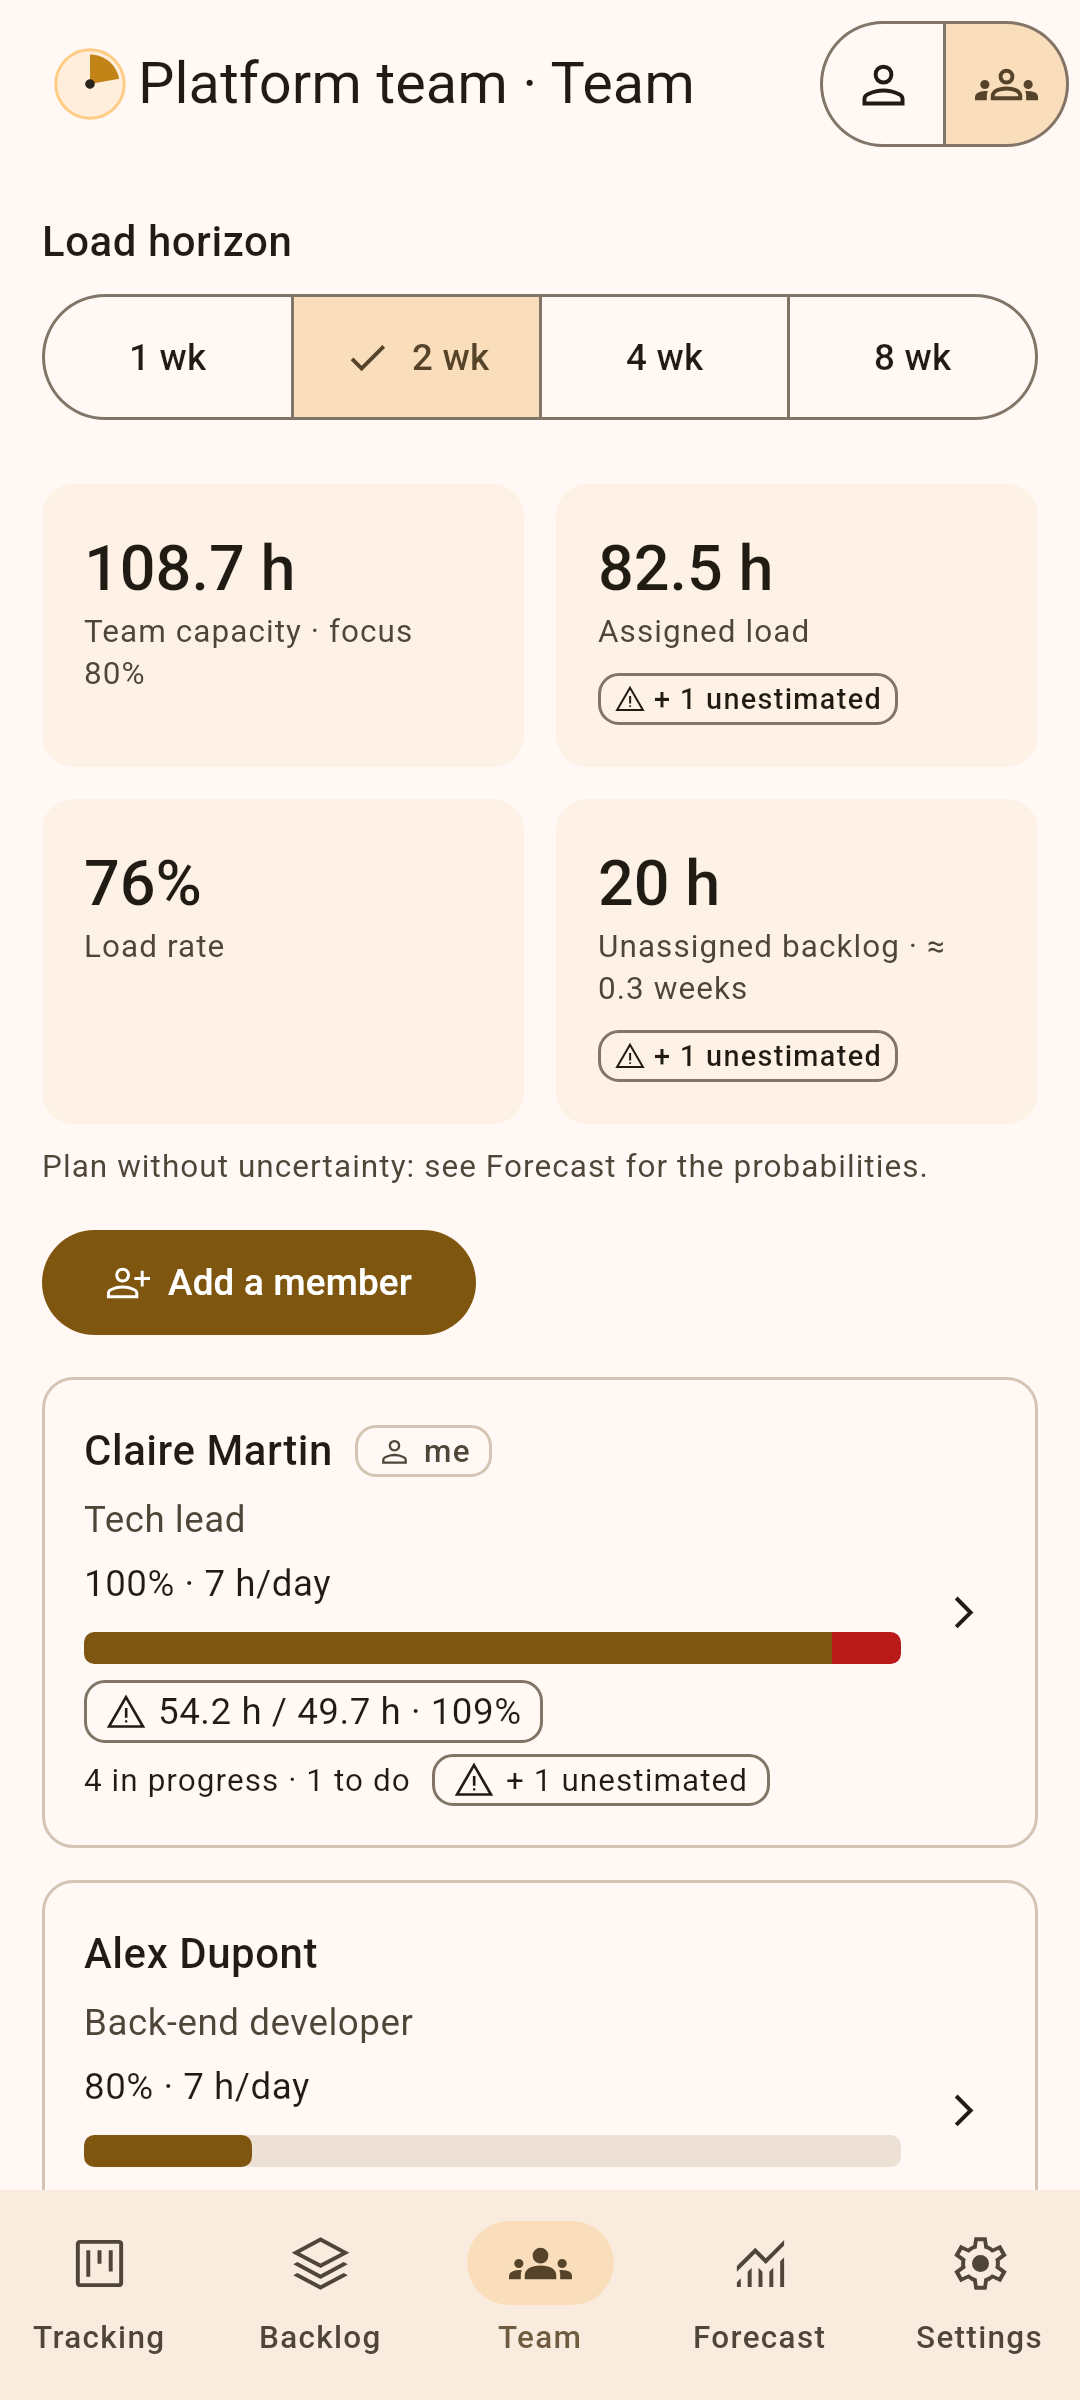
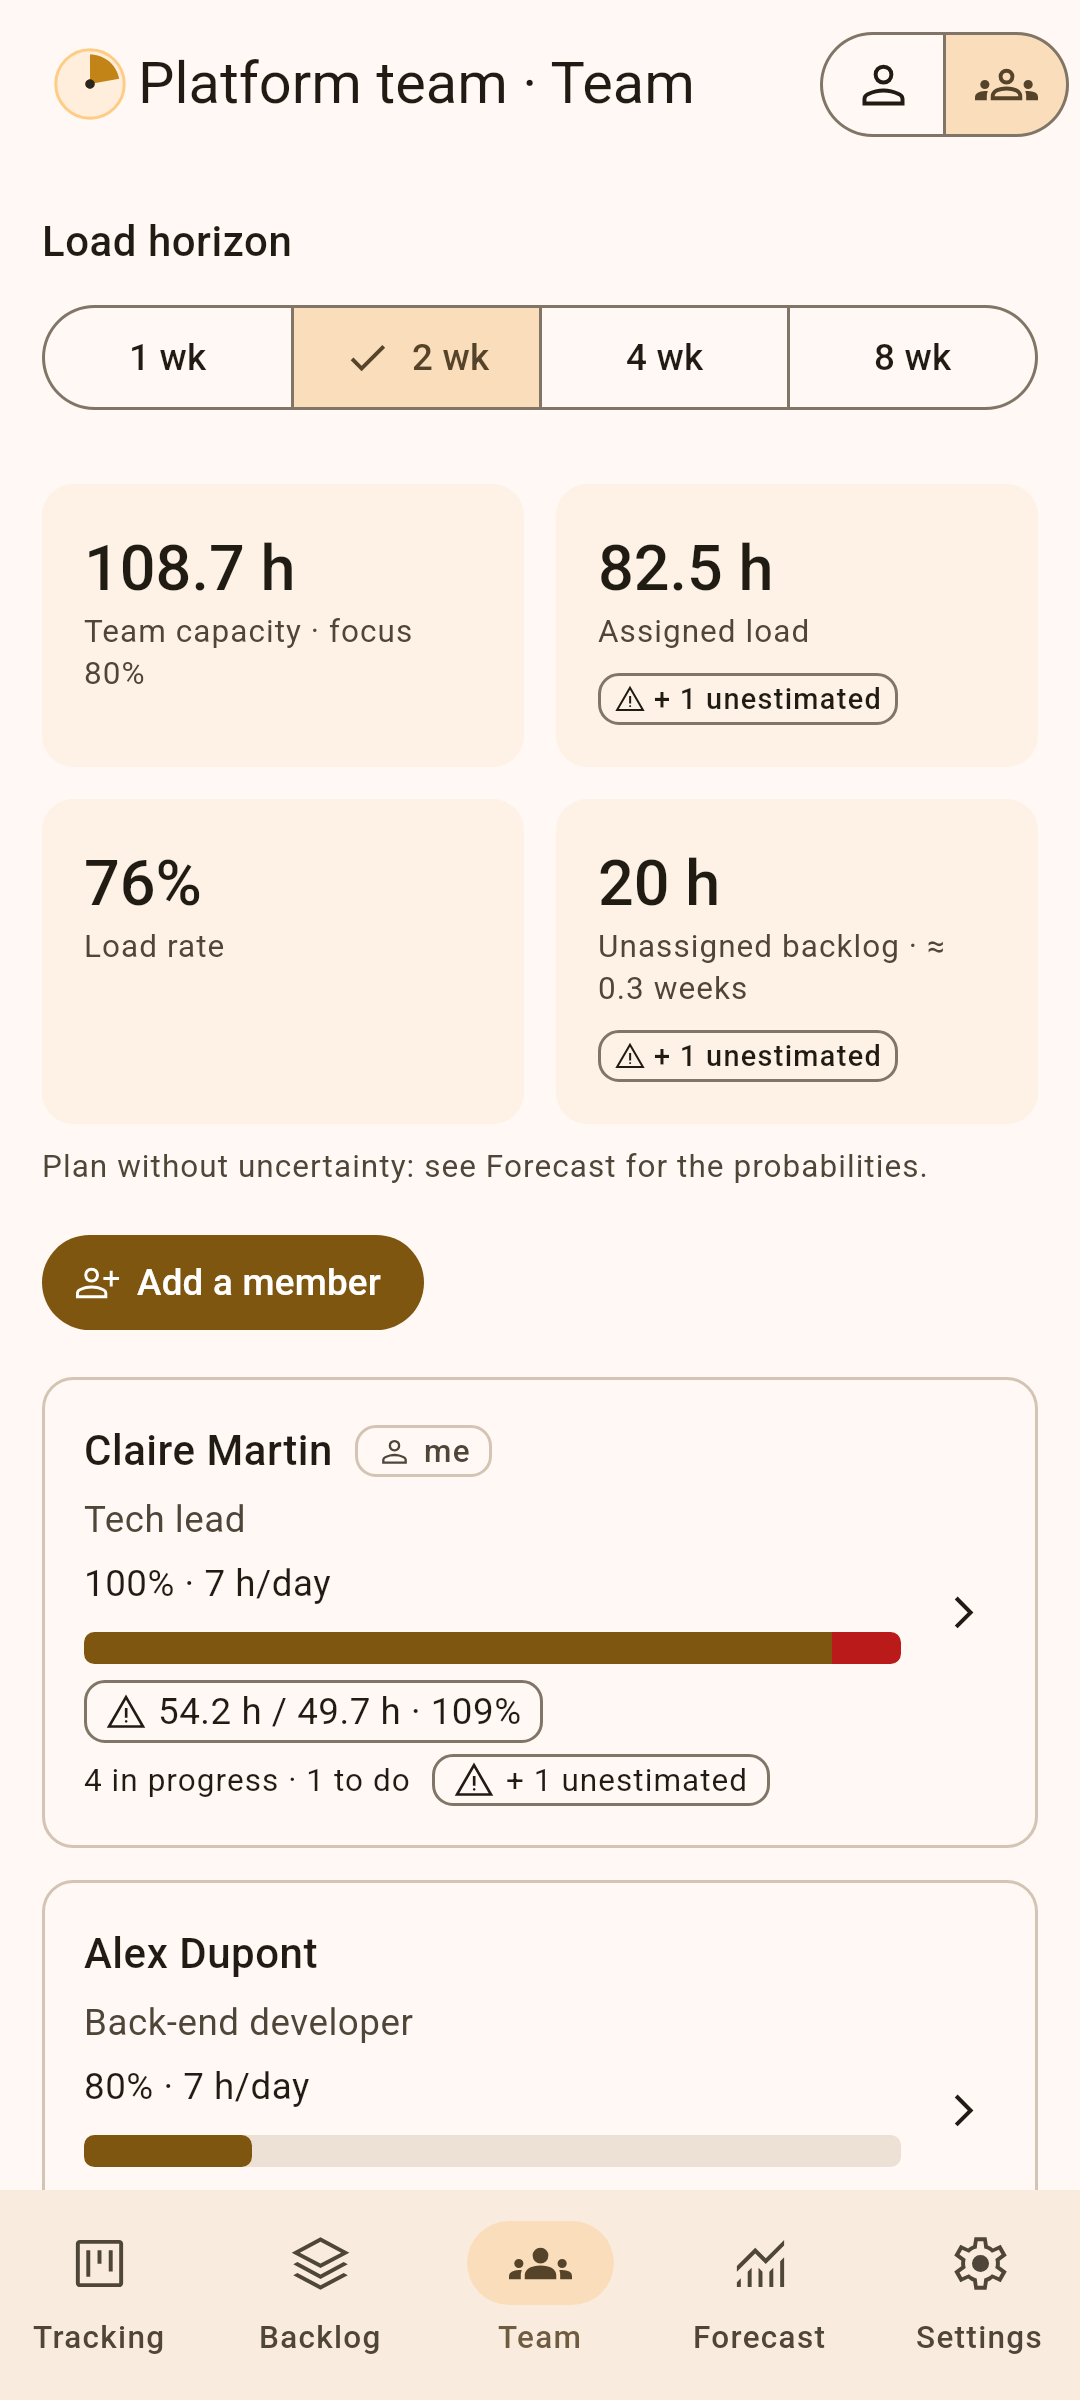
Densité : specs tracées, captures des magasins régénérées
densite.md passée à l'état implémenté avec les chiffres réels (132 usages,
19 heightIn retirés, 5 conservés), reports dans DESIGN_SYSTEM,
accessibilite, reglages et navigation-theme. Captures Fastlane FR/EN
régénérées (les boutons y changent).

Claude-Session: https://claude.ai/code/session_01R3cBrC1E3Z3UZPDJ9xZkLC

diff --git a/docs/spec/densite.md b/docs/spec/densite.md
@@ -10,8 +10,8 @@ les emploient ; charte : [`docs/DESIGN_SYSTEM.md`](../DESIGN_SYSTEM.md)
 § Boutons & champs. Complète [`navigation-theme.md`](navigation-theme.md) et
 [`accessibilite.md`](accessibilite.md)._
 
-État : **spécifiée le 2026-10-01, non implémentée** (passe « design »,
-branche empilée sur le jalon E6 de l'espace Équipe).
+État : **implémentée le 2026-10-01** (passe « design », branche empilée sur
+le jalon E6 de l'espace Équipe).
 
 ## 1. Besoin métier (cahier des charges)
 
@@ -61,6 +61,8 @@ champs à contour).
   sélecteur segmenté 40 dp (tests de mesure).
 - Aucune nouvelle chaîne, aucun texte déplacé : `StringsParityTest` inchangé.
 - Les écrans de l'espace Équipe suivent la même règle que les autres.
+- Les captures des magasins sont régénérées (`--store-screenshots`) : tous
+  les boutons y changent.
 
 ### Hors périmètre
 
@@ -93,10 +95,33 @@ champs à contour).
   Material 3 ne s'emploient que dans `KairosComponents.kt` (test source
   `ComponentDensityTest`) ; sinon une 117e utilisation retomberait à la
   taille nominale sans que personne le voie.
-- Les `heightIn(min = 48.dp)` posés **sur** un bouton ou une puce sont
-  retirés (23 occurrences au départ). Ceux posés sur une **ligne** entière
-  qui se touche (`disclosure`, cases à cocher avec libellé, interrupteurs)
-  restent : c'est la cible tactile de la ligne, pas un composant à alléger.
+- Les `heightIn(min = 48.dp)` posés **sur** un bouton, une puce ou un
+  segment sont retirés (19) ; ceux posés sur une **ligne** entière qui se
+  touche restent (5 : `disclosure`, case à cocher avec libellé, interrupteur,
+  ligne d'absence, ligne d'échéance des prévisions) : c'est la cible
+  tactile de la ligne, pas un composant à alléger.
+- La hauteur dessinée vient de `heightIn(min = 36.dp)` posé par l'enveloppe :
+  le `Surface` de Material 3 propage la contrainte minimale, donc son
+  `defaultMinSize` de 40 dp ne joue plus (un test de mesure échoue à 41 dp).
+  Un bouton dont le contenu commence par une icône reçoit
+  `contentPadding = KairosButtonIconPadding` (12 dp côté icône) ; ceux dont
+  l'icône est en fin de contenu (« Suivant », feuille de suggestion) gardent
+  16 dp des deux côtés.
+- `KairosSegmentedButton` est une extension du scope de la rangée
+  (`SingleChoiceSegmentedButtonRowScope`), pour garder les poids et
+  `itemShape` de Material 3.
+- 132 appels directs remplacés (Button 21, OutlinedButton 29, TextButton 67,
+  FilterChip 5, rangées segmentées 4, segments 6), 12 `KairosRowIconButton`
+  (ligne de tâche, bloc, fiche membre, ⋮ du Backlog, du Suivi et des
+  scénarios, suppression d'une note ou d'une modification). Restent en
+  `IconButton` de 24 dp : la coche « fait » d'une ligne de tâche et les
+  boutons de fermeture (feuilles, dialogues, À propos, chrono).
+- `ComponentDensityTest` (ui) lit `src/commonMain/kotlin` depuis le
+  répertoire du module, comme `StringsParityTest`, ignore commentaires et
+  KDoc, et refuse les appels et imports directs des sept composants Material
+  3 (qualifiés ou `material3.*` compris) hors `KairosComponents.kt` ;
+  `ComponentDensityUiTest` (desktopApp) mesure 36 / 32 / 40 / 40 dp dessinés
+  et 48 dp d'aire tactile.
 
 ### Espacement (`theme/KairosSpacing.kt`)
 
@@ -104,22 +129,46 @@ champs à contour).
   d'un groupe, puces entre elles), `m` 12 dp (blocs et cartes d'une liste),
   `l` 16 dp (marge intérieure d'une carte, marge d'écran), `xl` 24 dp (avant
   un titre de section).
+- Dérivées pour les `LazyColumn` dont les lignes restent à `s` :
+  `KairosListBlockExtra` (m − s) et `KairosListSectionExtra` (xl − s),
+  ajoutées autour d'un bloc ou d'un titre de section.
 - Appliqué aux colonnes de premier niveau des écrans (Jour, Notes, Semaine,
-  Stats, Réglages, Équipe) : `m` entre blocs, `xl` avant un titre de
-  section. Les marges intérieures de cartes restent à `l`. Pas de
-  remplacement mécanique des 8/12 dp déjà adaptés dans les composants.
+  Stats, Réglages, À propos, Backlog, Suivi, Équipe, Prévisions) : marge
+  d'écran `l`, `m` entre blocs, `xl` avant un titre de section (Jour, Notes,
+  Backlog, « Anciens membres », « Résultat » des Prévisions ; Semaine, Stats
+  et Suivi n'ont pas de titre de section hors carte). Les listes de tâches
+  gardent `s` entre lignes. Les marges intérieures de cartes restent à `l`.
+  Laissés tels quels : espacements internes des composants (lignes de tâche,
+  badges, barres, cartes « Maintenant » et « En ce moment » à 20 dp),
+  dialogues et fiches formulaire (déjà sur l'échelle), espacements
+  horizontaux.
 
 ### Réglages
 
 - Cartes de section : `Card` « filled » (`surfaceContainerLow`, sans
   contour, élévation 0), marge intérieure `l`, titre en `titleMedium`.
-- Champs numériques (`OutlinedTextField` à un nombre) : `widthIn(max =
-  320.dp)` et aide sous le champ à la même largeur ; champs de texte (types,
-  jours fériés, couleur libre) et interrupteurs gardent la pleine largeur.
-- Règle « pas de contour dans un contour » : une carte à contour
-  (`OutlinedCard`) ne contient pas d'autre bloc à contour que ses champs ;
-  dans une carte « filled », les sous-blocs sont « filled » plus clairs ou
-  sans fond.
+- `SettingsCard`, `SettingsClickableCard` (« À propos et guide », fond du
+  `ListItem` transparent) et `SettingsCardHeader` portent ces cartes pour les
+  huit sections du formulaire et pour Apparence, Équipe, Mises à jour,
+  Données et Raccourci.
+- Champs numériques (entiers et décimaux) : `Modifier.widthIn(max =
+  320.dp).fillMaxWidth()` (**dans cet ordre** : `fillMaxWidth().widthIn(max)`
+  laisse la contrainte entrante l'emporter et le champ reste pleine largeur) ;
+  l'aide (`supportingText`) suit la même largeur. Champs de texte libre
+  (types, jours fériés, couleur libre), dates et interrupteurs gardent la
+  pleine largeur. `SettingsLayoutUiTest` vérifie 360 et 1000 dp.
+- Règle « pas de contour dans un contour », appliquée aux **blocs** (cartes,
+  tuiles, panneaux), pas aux contrôles ni aux pastilles : une carte à contour
+  ne contient pas d'autre bloc à contour ; dans une carte « filled », les
+  sous-blocs sont « filled » plus clairs ou sans fond. Audit des
+  `OutlinedCard` hors Réglages : un seul cas, la tuile « à surveiller » du
+  panneau « Flux » des Statistiques, qui passe sans contour sur
+  `surfaceContainerHigh` dans le panneau (`StatTile(nested = true)`, l'icône
+  d'alerte reste). Laissés avec contour : badges et pastilles « à
+  surveiller » (la charte impose forme et contour, pas la couleur seule),
+  puces, boutons, champs, menus, et les blocs de la frise du Jour (épinglé,
+  conflit, deep work), dont la bordure porte le signal « pas la couleur
+  seule » ; passer la carte de la frise en « filled » reste possible.
 
 ### Décisions et alternatives écartées
 
@@ -141,8 +190,11 @@ champs à contour).
   sont déjà admises par la charte.
 - **Pas de glisser-ajuster ni de réglage « densité » dans les Réglages** :
   une préférence de plus pour un défaut qui doit simplement être bon.
+- **Observé, non traité** : sur téléphone, le sélecteur d'espace Perso | Équipe
+  de la barre d'application laisse une marge droite d'environ 10 dp, contre
+  16 dp ailleurs ; antérieur à cette passe.
 
-### Impacts sur les specs existantes (à reporter à l'implémentation)
+### Impacts sur les specs existantes (reportés)
 
 - `docs/DESIGN_SYSTEM.md` § Boutons & champs et § Forme & élévation : hauteurs
   dessinées, aire tactile, enveloppes `Kairos*`, cartes de Réglages.

diff --git a/docs/DESIGN_SYSTEM.md b/docs/DESIGN_SYSTEM.md
@@ -170,7 +170,9 @@ réseau. **Ajouter une icône dans le script, jamais à la main.** Variante plei
   navigation en pilule.
 - Cartes : `OutlinedCard` (surface + contour `outlineVariant`) ou `Card`
   « filled » (`surfaceContainerLow`, élévation 0) pour la capture, les lignes
-  de tâche et de note, les tuiles de statistiques.
+  de tâche et de note, les tuiles de statistiques et les **cartes de
+  section des Réglages**. Pas de contour dans un contour : un bloc à
+  contour ne contient pas d'autre bloc à contour (ses champs exceptés).
 - **Élévation** : une carte ne porte **jamais d'ombre**, son plan se lit par la
   surface tonale. Seuls les éléments qui flottent au-dessus du contenu en ont
   une, celle que Material 3 leur donne : dialogues, snackbar, menus.
@@ -186,13 +188,23 @@ réseau. **Ajouter une icône dans le script, jamais à la main.** Variante plei
 
 ## Boutons & champs
 
-- Hiérarchie MD3 : `Button` (plein, action principale), `OutlinedButton`,
-  `TextButton` (action tertiaire, « Décaler », « Plus tard »), `IconButton`
-  pour les actions de ligne (chrono, décaler, modifier) ; destruction en
-  couleur d'erreur, avec confirmation.
+- Hiérarchie MD3 : bouton plein (action principale), à contour, tonal, de
+  texte (action tertiaire, « Décaler », « Plus tard »), bouton-icône pour
+  les actions de ligne (chrono, décaler, modifier) ; destruction en couleur
+  d'erreur, avec confirmation.
+- **Densité** (`docs/spec/densite.md`) : tout passe par les enveloppes
+  `Kairos*` de `theme/KairosComponents.kt`, jamais par les composants
+  Material 3 directement (test `ComponentDensityTest`). Hauteurs
+  **dessinées** : bouton 36 dp (marges latérales 16 dp, 12 dp côté icône),
+  puce 32 dp, segment 40 dp, bouton-icône de ligne 40 dp avec icône de
+  20 dp ; **aire tactile 48 dp** pour tous (Material 3 l'agrandit autour du
+  dessin). Espacement : `KairosSpacing` 4 / 8 / 12 / 16 / 24 dp (liés /
+  groupe / bloc / marge / section).
 - Champs `OutlinedTextField` (rayon 4 dp) ; menus déroulants
-  `ExposedDropdownMenuBox` ; choix exclusifs en `SingleChoiceSegmentedButtonRow`
-  ou en puces (`FilterChip`) ; interrupteurs dont toute la ligne se touche.
+  `ExposedDropdownMenuBox` ; choix exclusifs en rangée segmentée
+  (`KairosSegmentedRow`) ou en puces (`KairosFilterChip`) ; interrupteurs
+  dont toute la ligne se touche. Dans les Réglages, un champ numérique
+  s'arrête à 320 dp.
 
 ## Logo
 

diff --git a/docs/spec/reglages.md b/docs/spec/reglages.md
@@ -110,8 +110,8 @@ un nombre) ne doit jamais être enregistré, ni à moitié.
 - État : textes du formulaire, erreurs et règle violée, réinitialisés quand
   les réglages enregistrés changent (import, migration) ; `dirty` = textes ≠
   valeurs enregistrées.
-- `SettingsFormCards` : `OutlinedCard` par section (titre marqué
-  `heading`), `SettingInput` : `OutlinedTextField` pleine largeur, clavier
+- `SettingsFormCards` : carte « filled » par section (`SettingsCard`, sans contour, `densite.md` ; titre marqué
+  `heading`), `SettingInput` : `OutlinedTextField` (largeur bornée à 320 dp pour un nombre, pleine largeur pour un texte), clavier
   numérique ou décimal, `supportingText` = erreur sinon aide ; `SwitchRow` :
   `Switch` dans une ligne `toggleable` (rôle interrupteur, 48 dp).
 - Bandeau de règle inter-champs : conteneur d'erreur et icône `Warning`

diff --git a/docs/spec/accessibilite.md b/docs/spec/accessibilite.md
@@ -34,7 +34,10 @@ pouvoir le toucher sans viser.
   des titres : on y saute avec le lecteur d'écran.
 - Cibles tactiles de 48 dp au moins (pastilles, interrupteurs, cases à
   cocher avec leur libellé, en-têtes dépliables), sauf la description
-  dépliable d'une ligne de tâche, dont toute la largeur se touche.
+  dépliable d'une ligne de tâche, dont toute la largeur se touche. C'est
+  l'**aire tactile** qui compte, pas la hauteur dessinée : un bouton de 36 dp,
+  une puce de 32 dp ou un segment de 40 dp restent touchables sur 48 dp
+  (`densite.md`, vérifié par `assertTouchHeightIsEqualTo(48.dp)`).
 - Textes et fonds : rôles MD3 du schéma généré (texte « on-… » sur son
   conteneur), qui garantissent le contraste ; jamais une information portée
   par la couleur seule (icône et texte avec, `statistiques.md`,

diff --git a/docs/spec/navigation-theme.md b/docs/spec/navigation-theme.md
@@ -86,6 +86,9 @@ aussi pouvoir comprendre ce que fait l'outil sans lire le dépôt.
   retoucher un rôle isolé. C'est le thème par défaut ; la couleur choisie
   dans les Réglages en dérive un autre par le même calcul (`ThemeColors`,
   `apparence.md`).
+- `KairosComponents.kt` (boutons de 36 dp, puces de 32 dp, segmentés de
+  40 dp, bouton-icône de ligne) et `KairosSpacing.kt` (échelle 4 / 8 / 12 /
+  16 / 24 dp) : densité des composants, `densite.md`.
 - `KairosTheme.kt` : `KairosTheme(colorScheme = KairosLightColors)` pose
   `MaterialTheme(colorScheme, typography, shapes)` ; `LocalSystemColorScheme`
   (couleurs du système, `null` hors Android 12 et plus, `apparence.md`).
